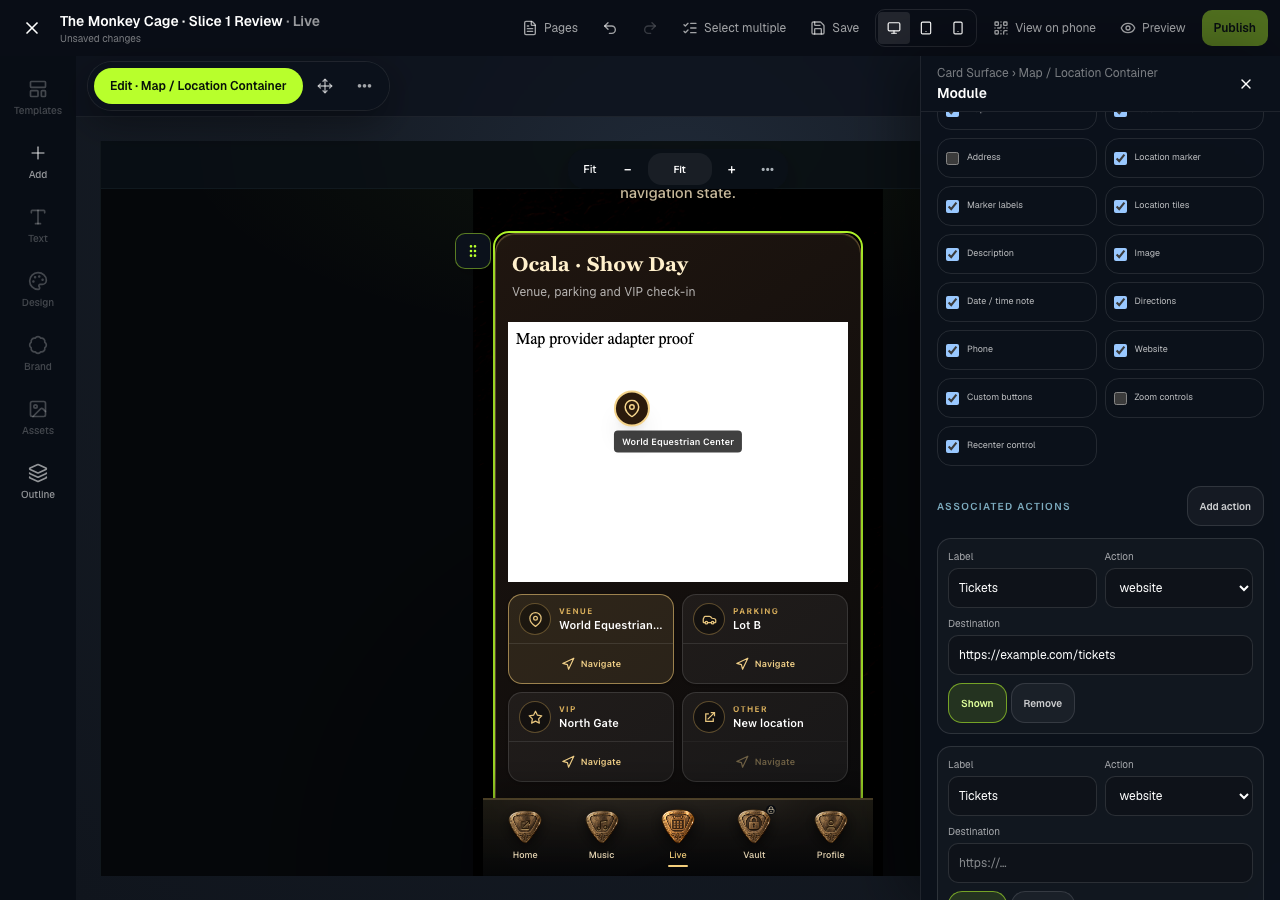
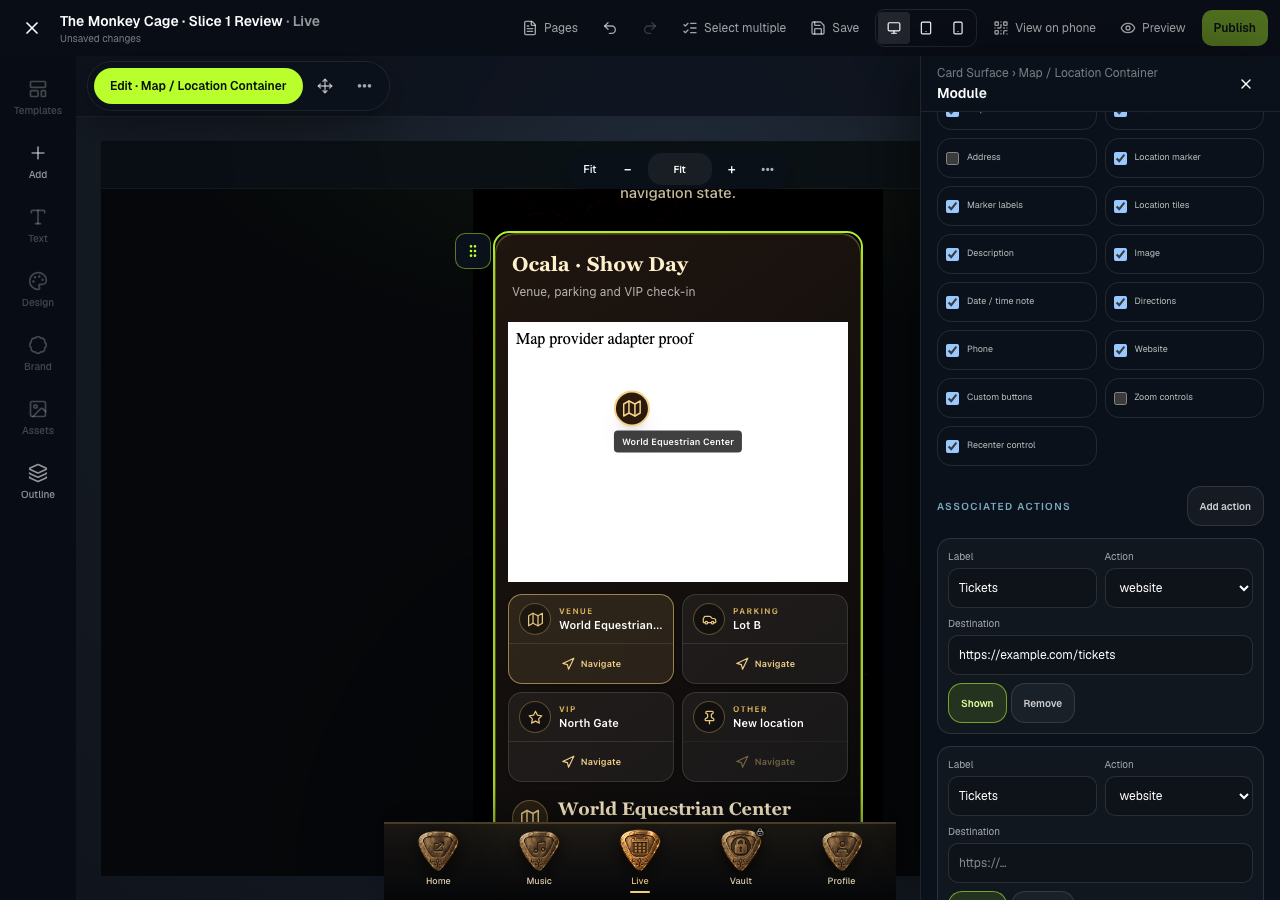
refine count-aware Experience navigation

Changed region(s): [[0.3125, 0.8711, 0.6875, 0.9644], [0.4688, 0.4356, 0.5, 0.4667], [0.4062, 0.6844, 0.4375, 0.7156]]

diff --git a/e2e/experience-navigation-count-aware.spec.ts b/e2e/experience-navigation-count-aware.spec.ts
@@ -1,0 +1,127 @@
+import { expect, test } from "@playwright/test";
+import { mkdirSync, writeFileSync } from "node:fs";
+import path from "node:path";
+
+const enabled = process.env.EXPERIENCE_NAV_COUNT_ACCEPTANCE === "1";
+const evidence = path.join(
+  "docs",
+  "product-reconstitution",
+  "creative-studio-platform",
+  "proofs",
+  "experience-navigation-count-aware",
+);
+
+type ReviewDraft = {
+  experience: {
+    pages: Array<{
+      pageId: string;
+      navOrder: number;
+      navVisible: boolean;
+      pageVisible: boolean;
+      access?: { lockedBehavior?: { mode?: string } };
+    }>;
+  };
+  [key: string]: unknown;
+};
+
+test("proves intentional three, four, and five-item persistent navigation at 390px", async ({ page }) => {
+  test.skip(!enabled, "Set EXPERIENCE_NAV_COUNT_ACCEPTANCE=1 for the focused count-aware navigation proof");
+  test.setTimeout(120_000);
+  mkdirSync(evidence, { recursive: true });
+
+  await page.setViewportSize({ width: 1280, height: 900 });
+  await page.goto("/review/studio", { waitUntil: "networkidle" });
+  const baselineResponse = await page.request.get("/api/card/draft");
+  expect(baselineResponse.ok()).toBeTruthy();
+  const baseline = await baselineResponse.json() as { draft: ReviewDraft; revision: number };
+  const originalVisible = baseline.draft.experience.pages
+    .filter((candidate) => candidate.navVisible && candidate.pageVisible && candidate.access?.lockedBehavior?.mode !== "hidden")
+    .sort((a, b) => a.navOrder - b.navOrder);
+  expect(originalVisible.length).toBeGreaterThanOrEqual(5);
+  let revision = baseline.revision;
+  const report: Record<string, unknown> = {};
+
+  try {
+    for (const count of [5, 4, 3]) {
+      const draft = structuredClone(baseline.draft);
+      const visibleIds = new Set(originalVisible.slice(0, count).map((candidate) => candidate.pageId));
+      for (const candidate of draft.experience.pages) {
+        if (originalVisible.some((original) => original.pageId === candidate.pageId)) {
+          candidate.navVisible = visibleIds.has(candidate.pageId);
+        }
+      }
+      const update = await page.request.put("/api/card/draft", { data: { draft, expectedRevision: revision } });
+      expect(update.ok()).toBeTruthy();
+      revision = ((await update.json()) as { revision: number }).revision;
+
+      await page.reload({ waitUntil: "networkidle" });
+      await page.getByTestId("studio-preview").click();
+      await page.setViewportSize({ width: 390, height: 844 });
+
+      const nav = page.getByTestId("experience-bottom-navigation");
+      const expected = count === 5
+        ? { composition: "full", width: "100", pickTier: "compact", pickMin: 49, pickMax: 51 }
+        : count === 4
+          ? { composition: "balanced", width: "90", pickTier: "medium", pickMin: 55, pickMax: 57 }
+          : { composition: "clustered", width: "78", pickTier: "large", pickMin: 62, pickMax: 64 };
+      await expect(nav).toHaveAttribute("data-visible-slots", String(count));
+      await expect(nav).toHaveAttribute("data-count-composition", expected.composition);
+      await expect(nav).toHaveAttribute("data-cluster-width-percent", expected.width);
+      await expect(nav).toHaveAttribute("data-pick-size-tier", expected.pickTier);
+      await expect(nav.locator('[aria-current="page"]')).toHaveCount(1);
+
+      const metrics = await nav.evaluate((element) => {
+        const shell = document.querySelector<HTMLElement>('[data-testid="tap-experience-renderer"]')!;
+        const cluster = element.querySelector<HTMLElement>("[data-navigation-cluster]")!;
+        const buttons = [...element.querySelectorAll<HTMLElement>("button")];
+        const picks = buttons.map((button) => button.querySelector<HTMLElement>("[data-navigation-artwork]")!);
+        const navRect = element.getBoundingClientRect();
+        const clusterRect = cluster.getBoundingClientRect();
+        return {
+          viewportWidth: window.innerWidth,
+          navHeight: navRect.height,
+          bottomGap: window.innerHeight - navRect.bottom,
+          clusterWidth: clusterRect.width,
+          clusterWidthRatio: clusterRect.width / (element.clientWidth - 8),
+          clusterCenterDelta: Math.abs((clusterRect.left + clusterRect.width / 2) - window.innerWidth / 2),
+          pickWidths: picks.map((pick) => pick.getBoundingClientRect().width),
+          touchHeights: buttons.map((button) => button.getBoundingClientRect().height),
+          labels: buttons.map((button) => button.getAttribute("aria-label")),
+          shellPaddingBottom: Number.parseFloat(getComputedStyle(shell).paddingBottom),
+          clipped: picks.some((pick) => {
+            const rect = pick.getBoundingClientRect();
+            return rect.left < navRect.left || rect.right > navRect.right || rect.top < navRect.top || rect.bottom > navRect.bottom;
+          }),
+        };
+      });
+      expect(metrics.viewportWidth).toBe(390);
+      expect(Math.abs(metrics.bottomGap)).toBeLessThanOrEqual(1);
+      expect(metrics.clusterCenterDelta).toBeLessThanOrEqual(1);
+      expect(metrics.touchHeights.every((height) => height >= 44)).toBeTruthy();
+      expect(metrics.pickWidths.every((width) => width >= expected.pickMin && width <= expected.pickMax), JSON.stringify(metrics)).toBeTruthy();
+      expect(metrics.clipped).toBeFalsy();
+      expect(metrics.shellPaddingBottom).toBeGreaterThanOrEqual(metrics.navHeight + 8);
+      report[String(count)] = metrics;
+
+      await page.screenshot({ path: path.join(evidence, `${count}-items-phone-390.png`) });
+      await nav.screenshot({ path: path.join(evidence, `${count}-items-navigation-390.png`) });
+
+      if (count === 4) {
+        await nav.locator("[data-navigation-cluster]").evaluate((cluster) => {
+          (cluster as HTMLElement).style.width = "100%";
+        });
+        await nav.screenshot({ path: path.join(evidence, "4-items-full-width-control-390.png") });
+      }
+
+      await page.setViewportSize({ width: 1280, height: 900 });
+      await page.getByTestId("studio-preview").click();
+    }
+    writeFileSync(path.join(evidence, "metrics.json"), `${JSON.stringify(report, null, 2)}\n`);
+  } finally {
+    const current = await page.request.get("/api/card/draft");
+    if (current.ok()) {
+      const currentRevision = ((await current.json()) as { revision: number }).revision;
+      await page.request.put("/api/card/draft", { data: { draft: baseline.draft, expectedRevision: currentRevision } });
+    }
+  }
+});

diff --git a/components/tap/tap-connect-experience.tsx b/components/tap/tap-connect-experience.tsx
@@ -20,6 +20,10 @@ import {
   preserveExperienceReturnContext,
   readExperienceReturnContext,
 } from "@/lib/fusion/card/destination-opening-policy";
+import {
+  resolveExperienceNavigationComposition,
+  resolveLoveAndTheftNavigationArtwork,
+} from "@/lib/fusion/card/experience-navigation-presentation";
 
 export type TapConnectExperienceProps = Omit<TapConnectCardProps, "config" | "onInternalPageNavigate"> & {
   config: TapConnectCardConfig;
@@ -206,19 +210,16 @@ function ExperienceBottomNavigation({ pages, activePageId, config, onSelect }: {
   onSelect: (page: TapExperiencePage) => void;
 }) {
   const loveAndTheft = config.itemPresentation === "everencore-love-and-theft-mini-pick";
-  const certifiedPickRange = pages.length <= 3
-    ? { min: 52, max: 58, tier: "large" }
-    : pages.length === 4
-      ? { min: 46, max: 52, tier: "medium" }
-      : { min: 40, max: 46, tier: "compact" };
+  const composition = resolveExperienceNavigationComposition(pages.length);
+  const loveAndTheftArtwork = resolveLoveAndTheftNavigationArtwork(pages.length);
   const style = {
     "--experience-nav-surface": config.surfaceColor || "rgba(7, 11, 16, .92)",
     "--experience-nav-text": config.textColor || "rgba(255,255,255,.62)",
     "--experience-nav-active": config.activeColor || "#b8ff2c",
     "--experience-nav-border": config.borderColor || "rgba(255,255,255,.12)",
     "--experience-nav-blur": `${Math.max(0, Math.min(30, config.blurPx ?? 18))}px`,
-    "--experience-nav-pick-min": `${certifiedPickRange.min}px`,
-    "--experience-nav-pick-max": `${certifiedPickRange.max}px`,
+    "--experience-nav-cluster-width": `${composition.clusterWidthPercent}%`,
+    "--experience-nav-pick-width": `${loveAndTheftArtwork.layoutWidthPx}px`,
   } as CSSProperties;
   return <nav
     className={cn(
@@ -235,11 +236,13 @@ function ExperienceBottomNavigation({ pages, activePageId, config, onSelect }: {
     data-visible-slots={pages.length}
     data-item-presentation={config.itemPresentation || "standard-icon"}
     data-surface-treatment={config.surfaceTreatment || "solid"}
-    data-pick-size-tier={loveAndTheft ? certifiedPickRange.tier : undefined}
+    data-count-composition={composition.tier}
+    data-cluster-width-percent={composition.clusterWidthPercent}
+    data-pick-size-tier={loveAndTheft ? loveAndTheftArtwork.tier : undefined}
     data-shell-layer="navigation"
     data-safe-area="bottom"
   >
-    <div className="grid" style={{ gridTemplateColumns: `repeat(${pages.length}, minmax(0, 1fr))` }}>
+    <div className="mx-auto grid w-[var(--experience-nav-cluster-width)]" style={{ gridTemplateColumns: `repeat(${pages.length}, minmax(0, 1fr))` }} data-navigation-cluster={composition.tier}>
       {pages.map((page) => {
         const destination = page.navDestinationPageId || page.pageId;
         const active = destination === activePageId;
@@ -256,8 +259,8 @@ function ExperienceBottomNavigation({ pages, activePageId, config, onSelect }: {
           data-nav-destination={destination}
           data-nav-active={active ? "true" : "false"}
         >
-          <span className={cn("relative grid place-items-center overflow-visible", loveAndTheft ? "shrink-0" : "h-5 w-6")} aria-hidden style={loveAndTheft ? { width: "clamp(var(--experience-nav-pick-min), 58cqi, var(--experience-nav-pick-max))", aspectRatio: "1.06 / 1" } : undefined}>
-            <NavIcon iconRef={page.navIconRef} presentation={config.itemPresentation} active={active} />
+          <span className={cn("relative grid place-items-center overflow-visible", loveAndTheft ? "shrink-0" : "h-6 w-7")} aria-hidden style={loveAndTheft ? { width: "min(var(--experience-nav-pick-width), calc(100% - .5rem))", aspectRatio: "1.06 / 1" } : undefined}>
+            <NavIcon iconRef={page.navIconRef} presentation={config.itemPresentation} active={active} standardIconSizePx={composition.standardIconSizePx} familyArtworkScale={loveAndTheftArtwork.visualScale} />
             {locked ? <LockKeyhole className="absolute -right-0.5 -top-0.5 h-2.5 w-2.5 rounded-full bg-[var(--experience-nav-surface)] p-px" /> : null}
           </span>
           <span className="max-w-full truncate">{page.navLabel}</span>
@@ -268,16 +271,16 @@ function ExperienceBottomNavigation({ pages, activePageId, config, onSelect }: {
   </nav>;
 }
 
-function NavIcon({ iconRef, presentation, active }: { iconRef?: string; presentation?: NonNullable<TapConnectCardConfig["experience"]>["navigation"]["itemPresentation"]; active?: boolean }) {
+function NavIcon({ iconRef, presentation, active, standardIconSizePx, familyArtworkScale }: { iconRef?: string; presentation?: NonNullable<TapConnectCardConfig["experience"]>["navigation"]["itemPresentation"]; active?: boolean; standardIconSizePx: number; familyArtworkScale: number }) {
   const value = iconRef || "circle";
   if (presentation === "everencore-love-and-theft-mini-pick") {
-    return <LoveAndTheftPickVisual iconAssetRef={value.includes(":") ? value : `lucide:${value}`} active={active} compact className="h-full w-full" />;
+    return <span className="grid h-full w-full place-items-center" style={{ transform: `scale(${familyArtworkScale})` }} data-navigation-artwork="love-and-theft-pick"><LoveAndTheftPickVisual iconAssetRef={value.includes(":") ? value : `lucide:${value}`} active={active} compact className="h-full w-full" /></span>;
   }
   if (/^(?:https?:\/\/|\/)/.test(value)) {
     // eslint-disable-next-line @next/next/no-img-element
-    return <img src={value} alt="" className="h-4 w-4 object-contain" />;
+    return <img src={value} alt="" className="object-contain" style={{ width: standardIconSizePx, height: standardIconSizePx }} data-navigation-artwork="standard-icon" />;
   }
-  return <PremiumIcon icon={value} sizePx={17} />;
+  return <span className="grid place-items-center" data-navigation-artwork="standard-icon"><PremiumIcon icon={value} sizePx={standardIconSizePx} /></span>;
 }
 
 function LockedPage({ page, onNavigate }: { page: TapExperiencePage; onNavigate: (pageId: string) => void }) {

diff --git a/lib/fusion/card/__tests__/experience-navigation-presentation.test.ts b/lib/fusion/card/__tests__/experience-navigation-presentation.test.ts
@@ -1,0 +1,44 @@
+import assert from "node:assert/strict";
+import test from "node:test";
+import {
+  resolveExperienceNavigationComposition,
+  resolveLoveAndTheftNavigationArtwork,
+} from "../experience-navigation-presentation";
+
+test("composes three, four, and five visible navigation slots intentionally", () => {
+  assert.deepEqual(resolveExperienceNavigationComposition(3), {
+    tier: "clustered",
+    clusterWidthPercent: 78,
+    standardIconSizePx: 20,
+  });
+  assert.deepEqual(resolveExperienceNavigationComposition(4), {
+    tier: "balanced",
+    clusterWidthPercent: 90,
+    standardIconSizePx: 19,
+  });
+  assert.deepEqual(resolveExperienceNavigationComposition(5), {
+    tier: "full",
+    clusterWidthPercent: 100,
+    standardIconSizePx: 18,
+  });
+});
+
+test("keeps supported two-item navigation as an intentional centered pair", () => {
+  assert.deepEqual(resolveExperienceNavigationComposition(2), {
+    tier: "paired",
+    clusterWidthPercent: 62,
+    standardIconSizePx: 21,
+  });
+});
+
+test("Love & Theft artwork grows as slots become less dense without owning cluster geometry", () => {
+  const five = resolveLoveAndTheftNavigationArtwork(5);
+  const four = resolveLoveAndTheftNavigationArtwork(4);
+  const three = resolveLoveAndTheftNavigationArtwork(3);
+
+  assert.deepEqual(five, { tier: "compact", layoutWidthPx: 44, visualScale: 1.13 });
+  assert.deepEqual(four, { tier: "medium", layoutWidthPx: 48, visualScale: 1.17 });
+  assert.deepEqual(three, { tier: "large", layoutWidthPx: 53, visualScale: 1.18 });
+  assert.ok(three.layoutWidthPx * three.visualScale > four.layoutWidthPx * four.visualScale);
+  assert.ok(four.layoutWidthPx * four.visualScale > five.layoutWidthPx * five.visualScale);
+});

diff --git a/lib/fusion/card/experience-navigation-presentation.ts b/lib/fusion/card/experience-navigation-presentation.ts
@@ -1,0 +1,32 @@
+export type ExperienceNavigationComposition = {
+  tier: "single" | "paired" | "clustered" | "balanced" | "full";
+  clusterWidthPercent: number;
+  standardIconSizePx: number;
+};
+
+export type LoveAndTheftNavigationArtwork = {
+  tier: "large" | "medium" | "compact";
+  layoutWidthPx: number;
+  visualScale: number;
+};
+
+/**
+ * Shared shell rhythm for a visible Page count. The item slot remains the
+ * accessible hit area; family artwork is sized independently by its renderer.
+ */
+export function resolveExperienceNavigationComposition(visibleSlotCount: number): ExperienceNavigationComposition {
+  const count = Math.max(1, Math.floor(visibleSlotCount));
+  if (count === 1) return { tier: "single", clusterWidthPercent: 44, standardIconSizePx: 21 };
+  if (count === 2) return { tier: "paired", clusterWidthPercent: 62, standardIconSizePx: 21 };
+  if (count === 3) return { tier: "clustered", clusterWidthPercent: 78, standardIconSizePx: 20 };
+  if (count === 4) return { tier: "balanced", clusterWidthPercent: 90, standardIconSizePx: 19 };
+  return { tier: "full", clusterWidthPercent: 100, standardIconSizePx: 18 };
+}
+
+/** Love & Theft owns pick geometry; the shared count rule above does not. */
+export function resolveLoveAndTheftNavigationArtwork(visibleSlotCount: number): LoveAndTheftNavigationArtwork {
+  const count = Math.max(1, Math.floor(visibleSlotCount));
+  if (count <= 3) return { tier: "large", layoutWidthPx: 53, visualScale: 1.18 };
+  if (count === 4) return { tier: "medium", layoutWidthPx: 48, visualScale: 1.17 };
+  return { tier: "compact", layoutWidthPx: 44, visualScale: 1.13 };
+}
